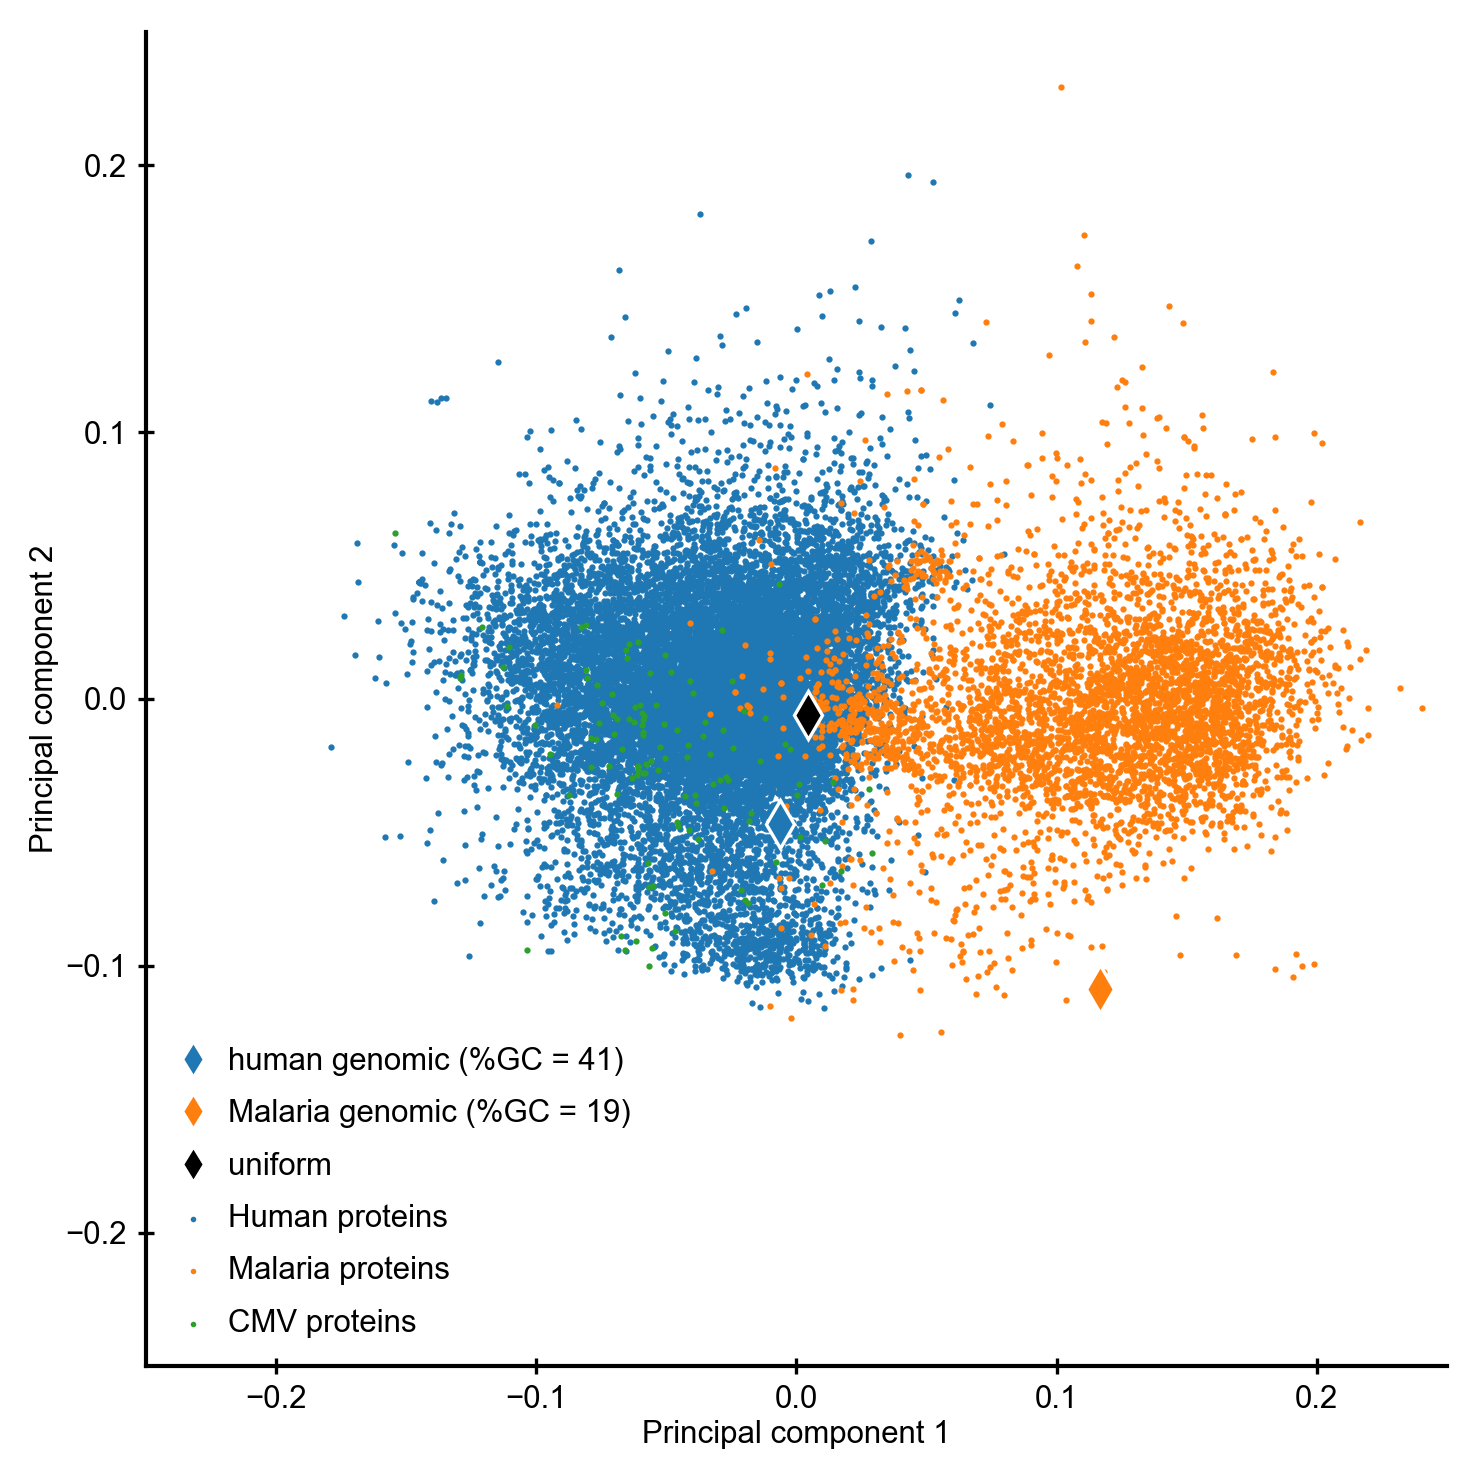
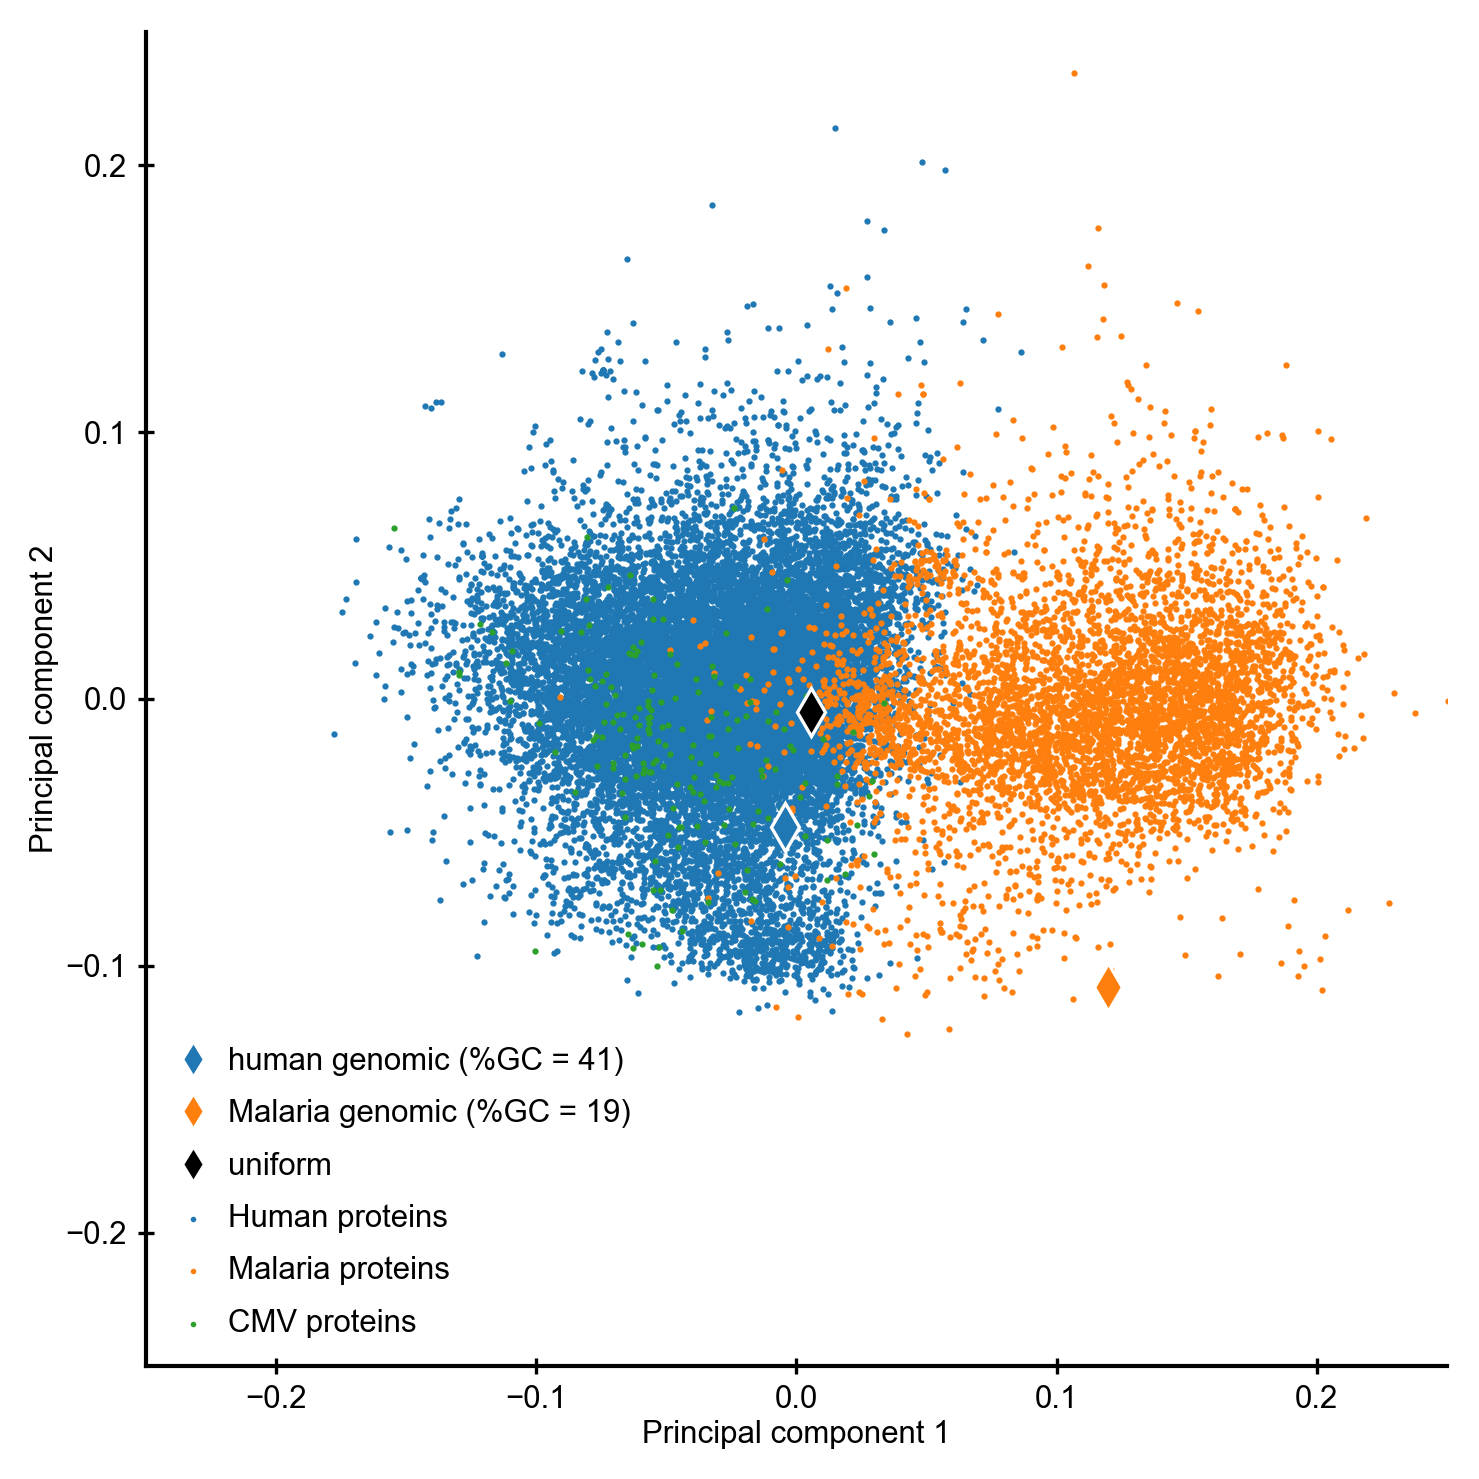
updated docs

Changed region(s): [[0.2488, 0.2177, 0.9331, 0.6842], [0.5598, 0.1866, 0.5909, 0.2177]]

diff --git a/docs/code/aafreqpca/run.py b/docs/code/aafreqpca/run.py
@@ -6,17 +6,21 @@ import sys
 sys.path.append('..')
 from lib import *
 
-min_length = 200
+# Also stores indices of proteins within the proteome to allow their reidentification
+
+min_length = 100
 
 aas =  aminoacids
 def aa_frequencies(proteome, min_length=1):
     seqs = []
-    for h, seq in fasta_iter(proteome):
+    indices = []
+    for i, (h, seq) in enumerate(fasta_iter(proteome)):
         for sym in 'XUBZ':
             seq = seq.replace(sym, '')
         if len(seq) < min_length:
             continue
         seqs.append(seq)
+        indices.append(i)
     array = np.zeros((len(seqs), len(aas)))
     i = 0
     for seq in seqs:
@@ -28,11 +32,17 @@ def aa_frequencies(proteome, min_length=1):
         for j, aa in enumerate(aas):
             array[i, j] = counter[aa]/sum_
         i += 1
-    return array
+    return array, indices
 
-aa_human = aa_frequencies(proteome_path('Human'), min_length=min_length)
-aa_malaria = aa_frequencies(proteome_path('Malaria'), min_length=min_length)
-aa_cmv = aa_frequencies(proteome_path('CMV'), min_length=min_length)
-aa_viruses = aa_frequencies(datadir+'human-viruses-uniref90.fasta', min_length=min_length)
+aa_human, indices_human = aa_frequencies(proteome_path('Human'), min_length=min_length)
+aa_malaria, indices_malaria = aa_frequencies(proteome_path('Malaria'), min_length=min_length)
+aa_cmv, indices_cmv = aa_frequencies(proteome_path('CMV'), min_length=min_length)
+aa_viruses, indices_viruses = aa_frequencies(datadir+'human-viruses-uniref90.fasta', min_length=min_length)
 
-np.savez('data/data.npz', human=aa_human, malaria=aa_malaria, cmv=aa_cmv, viruses=aa_viruses)
+np.savez('data/data.npz',
+        human=aa_human, malaria=aa_malaria, cmv=aa_cmv, viruses=aa_viruses,
+        indices_human=indices_human,
+        indices_malaria=indices_malaria,
+        indices_cmv=indices_cmv,
+        indices_viruses=indices_viruses
+        )

diff --git a/docs/code/aafreqpca/plot_malaria_antigen.py b/docs/code/aafreqpca/plot_malaria_antigen.py
@@ -1,0 +1,36 @@
+import numpy as np
+import pandas as pd
+import matplotlib.pyplot as plt
+import sklearn.decomposition
+
+import sys
+sys.path.append('..')
+from lib import *
+plt.style.use('../peptidome.mplstyle')
+
+
+data = np.load('data/data.npz')
+aa_human = data['human']
+aa_malaria = data['malaria']
+
+malaria_antigen_indices = np.array(pd.read_csv('data/malaria_antigens.csv', header=None)).flatten()
+print(malaria_antigen_indices)
+
+fig, ax = plt.subplots(figsize=(5, 5))
+pca = sklearn.decomposition.PCA(n_components=2)
+pca = pca.fit(np.vstack([aa_human, aa_malaria]))
+indices_malaria = data['indices_malaria']
+aa_malaria_antigen = np.array(pd.DataFrame(aa_malaria, index=indices_malaria).loc[malaria_antigen_indices].dropna())
+for label, aa in [('Human proteins', aa_human), ('Malaria proteins', aa_malaria), ('Malaria antigens', aa_malaria_antigen)]:
+    pcad_pathogen = pca.transform(aa)
+    ax.scatter(pcad_pathogen[:, 0], pcad_pathogen[:, 1], label=label, s=(5 if label == 'Malaria antigens' else .5))
+
+ax.legend()
+ax.set_xlabel('Principal component 1')
+ax.set_ylabel('Principal component 2')
+lim = 0.25
+ax.set_xlim(-lim, lim)
+ax.set_ylim(-lim, lim)
+fig.tight_layout()
+fig.savefig('malaria_antigens.png')
+plt.show()

diff --git a/docs/code/doubletcorrelation/plot_correlation_accross_species.py b/docs/code/doubletcorrelation/plot_correlation_accross_species.py
@@ -1,0 +1,32 @@
+import numpy as np
+import pandas as pd
+import matplotlib.pyplot as plt
+import seaborn as sns
+plt.style.use('../peptidome.mplstyle')
+
+import sys
+sys.path.append('..')
+from lib import *
+
+names = ['Human', 'Mouse', 'Yeast', 'Malaria', 'Vaccinia']
+gap = 1
+dfs = {name: pd.read_csv('data/doubletfoldenrichment-%g-%s.csv'%(gap, name), index_col=0) for name in names}
+
+#offdiagonal = {name: np.asarray(dfs[name])[~np.eye(len(aminoacids),dtype=bool)] for name in dfs}
+flattened = {name: np.asarray(dfs[name]).flatten() for name in dfs}
+
+fig, axes = plt.subplots(figsize=(8, 2), ncols=4, sharex=True, sharey=True)
+lim = 1.2
+for i, name in enumerate(names[1:]):
+    x = flattened['Human']
+    y = flattened[name]
+    sns.regplot(x, y, ax=axes[i])
+    mask = ~np.isnan(y)
+    slope, intercept, r_value, p_value, std_err = scipy.stats.linregress(x[mask], y[mask])
+    print(r_value**2, p_value, slope)
+    axes[i].set_ylabel(name)
+    axes[i].set_xlabel('Human')
+    axes[i].text(1.0, 1.0, '$R^2={0:.2f}$'.format(r_value**2), va='top', ha='right', transform=axes[i].transAxes)
+    axes[i].set_xlim(-lim, lim)
+    axes[i].set_ylim(-lim, lim)
+fig.savefig('logfoldenrichment_correlation.png')

diff --git a/docs/code/mivsdist/plot.py b/docs/code/mivsdist/plot.py
@@ -7,14 +7,20 @@ import sys
 sys.path.append('..')
 from lib import *
 
-for species in ['Human', 'Mouse', 'Yeast']:
+for species in ['Human', 'Mouse', 'Yeast', 'Viruses']:
     fig, ax = plt.subplots()
     df = pd.read_csv('data/mutualinformation-%s.csv'%species)
-    ax.plot(df['gaps']+1, df['mutualinformation'], label='data')
-    ax.plot(df['gaps']+1, df['shuffledmutualinformation'], label='shuffled')
+    l, = ax.plot(df['gaps']+1, df['mutualinformation'], lw=.8)
+    ax.fill_between(df['gaps']+1,
+                    df['mutualinformation']-df['mutualinformation_std'],
+                    df['mutualinformation']+df['mutualinformation_std'],
+                    color=l.get_color(), alpha=.3)
+    #ax.errorbar(df['gaps']+1, df['mutualinformation'],
+    #        2*df['mutualinformation_std'], label='data')
+    ax.plot(df['gaps']+1, df['shuffledmutualinformation'], label='shuffled', lw=.8)
     ax.legend()
-    ax.set_ylim(0.0, 0.0145)
-    ax.set_xlim(1.0, 200.0)
+    ax.set_ylim(0.0, 0.0185)
+    ax.set_xlim(0.95, 201.0)
     ax.set_xscale('log')
     ax.set_xlabel('Distance')
     ax.set_ylabel('Mutual information in bits')

diff --git a/docs/code/mivsdist/plot_loglog.py b/docs/code/mivsdist/plot_loglog.py
@@ -1,0 +1,30 @@
+import numpy as np
+import pandas as pd
+import matplotlib.pyplot as plt
+plt.style.use('../peptidome.mplstyle')
+
+import sys
+sys.path.append('..')
+from lib import *
+
+fig, ax = plt.subplots()
+for species in ['Human', 'Yeast']:
+    df = pd.read_csv('data/mutualinformation-%s.csv'%species)
+    err = ax.errorbar(df['gaps']+1, df['mutualinformation'],
+            2*df['mutualinformation_std'], label='data '+species)
+    ax.plot(df['gaps']+1, df['shuffledmutualinformation'],
+            label='shuffled '+species, c=err.lines[0].get_color())
+d = np.linspace(1, 200)
+#ax.plot(d, 0.005*np.exp(-d/50), zorder=10, label='exponential ($d_c=50$)')
+l, = ax.plot(d, 0.02*d**-.5, zorder=10, c='k', label=r'power law ($-1/2$)')
+ax.plot(d, 0.009*d**-.5, zorder=10, c=l.get_color())
+ax.legend(loc='upper right', ncol=2)
+ax.set_ylim(0.0004, 0.05)
+ax.set_xlim(0.95, 201.0)
+ax.set_xscale('log')
+ax.set_yscale('log')
+ax.set_xlabel('Distance')
+ax.set_ylabel('Mutual information in bits')
+fig.tight_layout()
+fig.savefig('loglog.png')
+plt.show()

diff --git a/docs/code/mivsdist/run.py b/docs/code/mivsdist/run.py
@@ -5,7 +5,9 @@ import sys
 sys.path.append('..')
 from lib import *
 
-name = sys.argv[1]
+run = int(sys.argv[1])-1
+names = ['Human', 'Mouse', 'Yeast', 'Viruses']
+name = names[run]
 if name == 'Viruses':
     proteome = datadir + 'human-viruses-uniref90_nohiv.fasta'
 else:
@@ -15,7 +17,7 @@ print(name, proteome)
 def calc_mi_std(seqs, gap):
     mis = []
     for i in range(30):
-        df2 = Counter(random.sample(seqs, 10000), k=2, gap=gap).to_df(norm=False, clean=True)
+        df2 = Counter(random.sample(seqs, int(len(seqs)/2)), k=2, gap=gap).to_df(norm=False, clean=True)
         mis.append(calc_mi(df2))
     return np.std(mis, ddof=1)/2**.5
 
@@ -24,7 +26,7 @@ mutualinformation_std = []
 shuffled_mutualinformation = []
 gaps = np.arange(0, 201, 1)
 for gap in gaps:
-    seqs = [s for s in fasta_iter(human, returnheader=False)]
+    seqs = [s for s in fasta_iter(proteome, returnheader=False)]
     df2 = Counter(seqs, k=2, gap=gap).to_df(norm=False, clean=True)
     mi = calc_mi(df2)
     mutualinformation.append(mi)

diff --git a/docs/code/aafreqpca/run_malaria_antigen.py b/docs/code/aafreqpca/run_malaria_antigen.py
@@ -1,0 +1,17 @@
+import numpy as np
+import pandas as pd
+import matplotlib.pyplot as plt
+
+import sys
+sys.path.append('..')
+from lib import *
+
+df_t = load_iedb_tcellepitopes(human_only=True)
+
+iedbname = 'Plasmodium falciparum'
+epitope_proteins = [s.split('/')[-1] for s in df_t[df_t['Epitope', 'Organism Name'] == iedbname]['Epitope', 'Parent Protein IRI'].unique() if type(s) == type('')]
+
+epitope_proteins_indices = [i
+                            for i, (h, seq) in enumerate(fasta_iter(proteome_path('Malaria')))
+                            if iscontained(h, epitope_proteins)]
+pd.Series(epitope_proteins_indices).to_csv('data/malaria_antigens.csv', index=False, header=False)

diff --git a/docs/_posts/2019-10-07-mivsdist.md b/docs/_posts/2019-10-07-mivsdist.md
@@ -90,7 +90,7 @@ plt.ylabel('Histogram');
 ```python
 
 ```
-#### run_loglog.py
+#### plot_loglog.py
 
 ```python
 import numpy as np
@@ -102,24 +102,26 @@ import sys
 sys.path.append('..')
 from lib import *
 
-species = 'Human'
 fig, ax = plt.subplots()
-df = pd.read_csv('data/mutualinformation-%s.csv'%species)
-ax.errorbar(df['gaps']+1, df['mutualinformation'],
-        2*df['mutualinformation_std'], label='data')
-ax.plot(df['gaps']+1, df['shuffledmutualinformation'], label='shuffled')
+for species in ['Human', 'Yeast']:
+    df = pd.read_csv('data/mutualinformation-%s.csv'%species)
+    err = ax.errorbar(df['gaps']+1, df['mutualinformation'],
+            2*df['mutualinformation_std'], label='data '+species)
+    ax.plot(df['gaps']+1, df['shuffledmutualinformation'],
+            label='shuffled '+species, c=err.lines[0].get_color())
 d = np.linspace(1, 200)
-ax.plot(d, 0.005*np.exp(-d/50), zorder=10, label='exponential ($d_c=50$)')
-ax.plot(d, 0.025*d**-.5, zorder=10, label=r'power law ($\alpha -1/2$)')
-ax.legend(loc='upper right')
-ax.set_ylim(0.001, 0.05)
+#ax.plot(d, 0.005*np.exp(-d/50), zorder=10, label='exponential ($d_c=50$)')
+l, = ax.plot(d, 0.02*d**-.5, zorder=10, c='k', label=r'power law ($-1/2$)')
+ax.plot(d, 0.009*d**-.5, zorder=10, c=l.get_color())
+ax.legend(loc='upper right', ncol=2)
+ax.set_ylim(0.0004, 0.05)
 ax.set_xlim(0.95, 201.0)
 ax.set_xscale('log')
 ax.set_yscale('log')
 ax.set_xlabel('Distance')
 ax.set_ylabel('Mutual information in bits')
 fig.tight_layout()
-fig.savefig('Human_loglog.png')
+fig.savefig('loglog.png')
 plt.show()
 
 ```
@@ -145,7 +147,7 @@ print(name, proteome)
 def calc_mi_std(seqs, gap):
     mis = []
     for i in range(30):
-        df2 = Counter(random.sample(seqs, 10000), k=2, gap=gap).to_df(norm=False, clean=True)
+        df2 = Counter(random.sample(seqs, int(len(seqs)/2)), k=2, gap=gap).to_df(norm=False, clean=True)
         mis.append(calc_mi(df2))
     return np.std(mis, ddof=1)/2**.5
 
@@ -189,11 +191,16 @@ from lib import *
 for species in ['Human', 'Mouse', 'Yeast', 'Viruses']:
     fig, ax = plt.subplots()
     df = pd.read_csv('data/mutualinformation-%s.csv'%species)
-    ax.errorbar(df['gaps']+1, df['mutualinformation'],
-            2*df['mutualinformation_std'], label='data')
-    ax.plot(df['gaps']+1, df['shuffledmutualinformation'], label='shuffled')
+    l, = ax.plot(df['gaps']+1, df['mutualinformation'], lw=.8)
+    ax.fill_between(df['gaps']+1,
+                    df['mutualinformation']-df['mutualinformation_std'],
+                    df['mutualinformation']+df['mutualinformation_std'],
+                    color=l.get_color(), alpha=.3)
+    #ax.errorbar(df['gaps']+1, df['mutualinformation'],
+    #        2*df['mutualinformation_std'], label='data')
+    ax.plot(df['gaps']+1, df['shuffledmutualinformation'], label='shuffled', lw=.8)
     ax.legend()
-    ax.set_ylim(0.0, 0.0145)
+    ax.set_ylim(0.0, 0.0185)
     ax.set_xlim(0.95, 201.0)
     ax.set_xscale('log')
     ax.set_xlabel('Distance')
